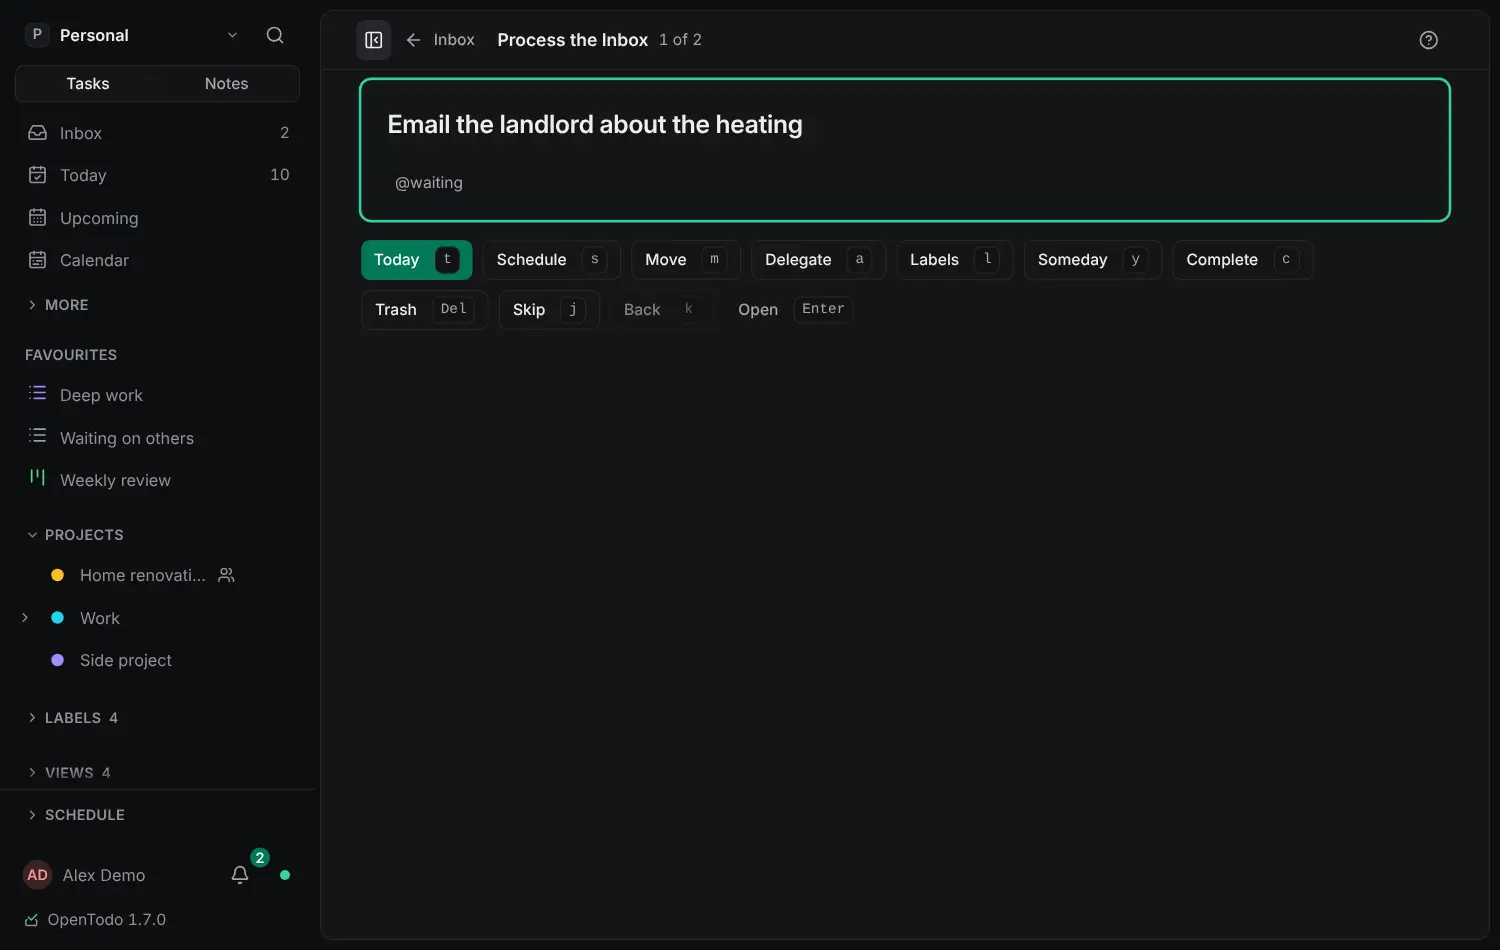
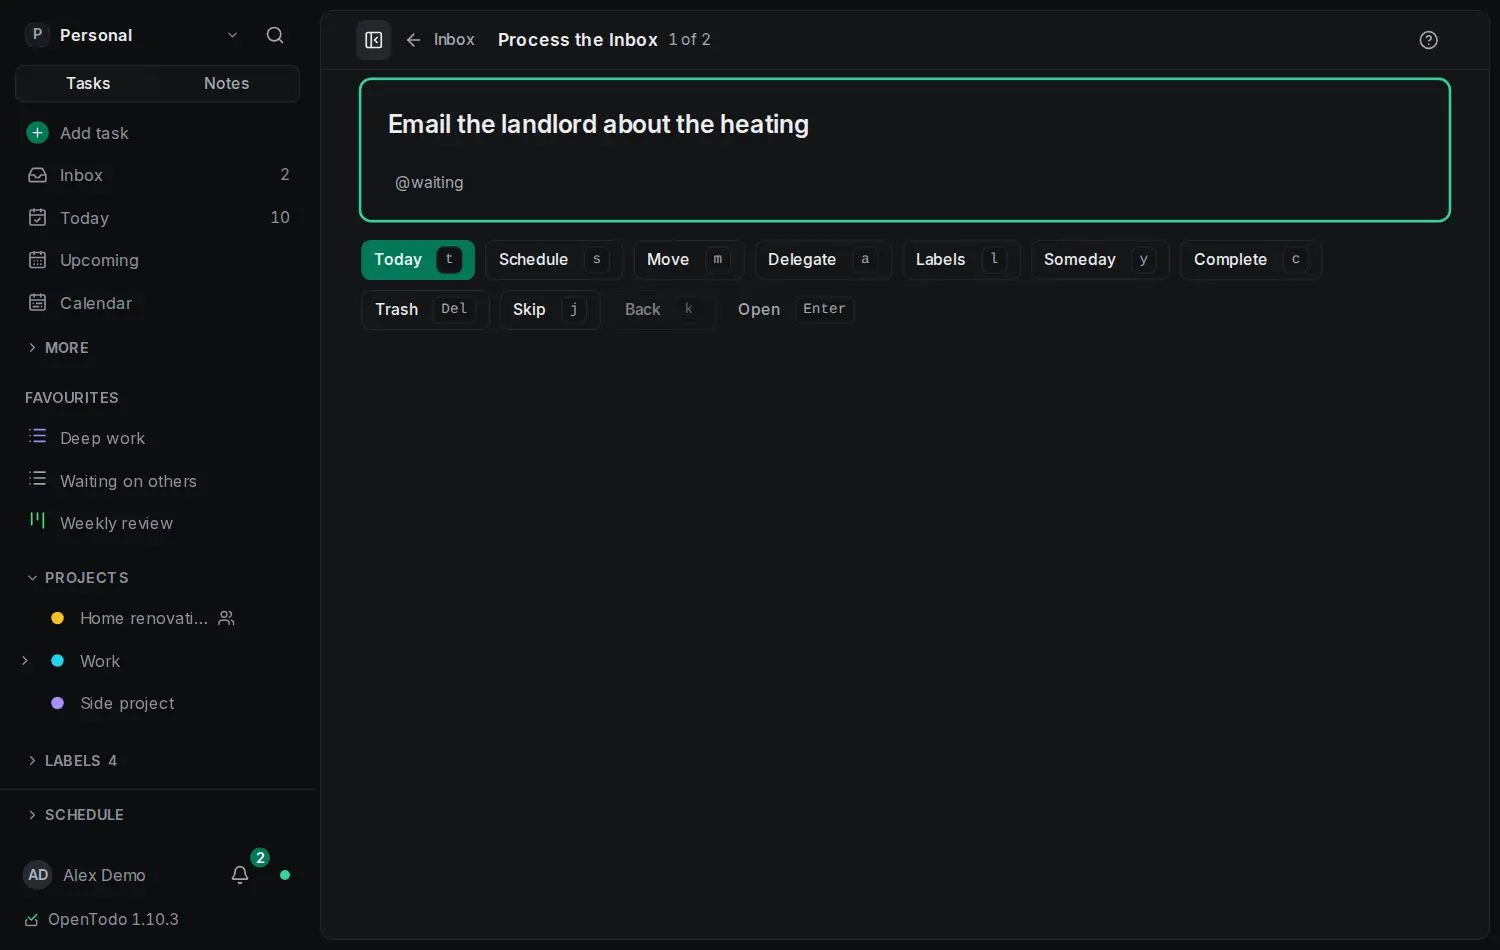
Prepare 1.10.3 (#2153)
* Docs screenshots of Process the Inbox, retaken for 1.10.3

Claude-Session: https://claude.ai/code/session_0187cnkUznk8omJqBk45JtjP

* Prepare 1.10.3

Claude-Session: https://claude.ai/code/session_0187cnkUznk8omJqBk45JtjP

---------

diff --git a/deploy/runtipi/upstream/scripts/__tests__/update-config.test.ts b/deploy/runtipi/upstream/scripts/__tests__/update-config.test.ts
@@ -24,9 +24,9 @@ beforeEach(() => {
 afterEach(() => fs.rmSync(dir, { recursive: true, force: true }));
 
 test("a new OpenTodo image raises the version, tipi_version and updated_at", async () => {
-  fs.writeFileSync(path.join(dir, "docker-compose.yml"), compose("ghcr.io/opentodoapp/opentodo:1.10.2", "busybox:1.37.0"));
-  const c = await updateAppConfig(path.join(dir, "docker-compose.yml"), "1.10.2", "ghcr.io/opentodoapp/opentodo", 1000);
-  expect(c.version).toBe("1.10.2");
+  fs.writeFileSync(path.join(dir, "docker-compose.yml"), compose("ghcr.io/opentodoapp/opentodo:1.10.3", "busybox:1.37.0"));
+  const c = await updateAppConfig(path.join(dir, "docker-compose.yml"), "1.10.3", "ghcr.io/opentodoapp/opentodo", 1000);
+  expect(c.version).toBe("1.10.3");
   expect(c.tipi_version).toBe(2);
   expect(c.updated_at).toBe(1000);
 });

diff --git a/deploy/caprover/README.md b/deploy/caprover/README.md
@@ -4,7 +4,7 @@ A [CapRover](https://caprover.com) one-click app in the v4 format of [`caprover/
 
 | Path | What |
 | --- | --- |
-| [`opentodo.yml`](opentodo.yml) | The app. One service, `$$cap_appname`, from `ghcr.io/opentodoapp/opentodo:$$cap_opentodo_version` (the version field defaults to the latest release, `1.10.2`). `containerHttpPort: '8080'` (CapRover's nginx proxies to it; no published port). The named volume `$$cap_appname-data` on `/data`. Four form fields passed as `OPENTODO_*`: base URL (empty), setup token (generated, `$$cap_gen_random_hex(32)`), open sign-up (`false`), trusted proxies (empty). The message after the install shows the setup token and says how to turn on https and then set the base URL. |
+| [`opentodo.yml`](opentodo.yml) | The app. One service, `$$cap_appname`, from `ghcr.io/opentodoapp/opentodo:$$cap_opentodo_version` (the version field defaults to the latest release, `1.10.3`). `containerHttpPort: '8080'` (CapRover's nginx proxies to it; no published port). The named volume `$$cap_appname-data` on `/data`. Four form fields passed as `OPENTODO_*`: base URL (empty), setup token (generated, `$$cap_gen_random_hex(32)`), open sign-up (`false`), trusted proxies (empty). The message after the install shows the setup token and says how to turn on https and then set the base URL. |
 | `upstream/public/v4/apps/opentodo.yml`, `upstream/public/v4/logos/opentodo.png` | Byte-identical copies at the paths they take in `caprover/one-click-apps`. The logo is `web/public/pwa-512.png` (their validator wants a png named like the app). |
 | [`upstream/PR.md`](upstream/PR.md) | Pull request title and body, with their checklist. |
 
@@ -53,5 +53,5 @@ CapRover can add other one-click repositories (**One-Click Apps/Databases → 3r
 ## Tested
 
 - Their validator, formatter and build on a copy of `caprover/one-click-apps` with this app added: `npm run validate_apps` (prints "Validated opentodo"), `npm run formatter` ("All matched files use Prettier code style!"), `npm run build` (writes `dist/v4/apps/opentodo` and the list entry).
-- The built JSON rendered the way CapRover does (random hex, form defaults, split/join of every id after `$$cap_appname`), then run with Docker in CapRover's order: the placeholder image with the named volume first, then `ghcr.io/opentodoapp/opentodo:1.10.2` with the rendered environment on the same volume. `/data` became 65532-owned, `/healthz` answered ok, the container turned healthy, creating the owner failed without the token and worked with the one from the end message, and the owner survived a restart and a replaced container.
+- The built JSON rendered the way CapRover does (random hex, form defaults, split/join of every id after `$$cap_appname`), then run with Docker in CapRover's order: the placeholder image with the named volume first, then `ghcr.io/opentodoapp/opentodo:1.10.3` with the rendered environment on the same volume. `/data` became 65532-owned, `/healthz` answered ok, the container turned healthy, creating the owner failed without the token and worked with the one from the end message, and the owner survived a restart and a replaced container.
 - Not tested: a real CapRover instance (Swarm, its nginx, Let's Encrypt). Before submitting, run step A.4.

diff --git a/deploy/truenas/README.md b/deploy/truenas/README.md
@@ -4,8 +4,8 @@
 
 | File | What it is |
 | --- | --- |
-| `app.yaml` | Catalogue metadata: the app's own `version` (a patch bump per release), `app_version` `1.10.2` (the image tag), category productivity, `run_as_context` 568:568, library `2.3.17` and its hash |
-| `ix_values.yaml` | The images: `ghcr.io/opentodoapp/opentodo` tag `"1.10.2"`, and TrueNAS's `container-utils` for the permissions container |
+| `app.yaml` | Catalogue metadata: the app's own `version` (a patch bump per release), `app_version` `1.10.3` (the image tag), category productivity, `run_as_context` 568:568, library `2.3.17` and its hash |
+| `ix_values.yaml` | The images: `ghcr.io/opentodoapp/opentodo` tag `"1.10.3"`, and TrueNAS's `container-utils` for the permissions container |
 | `questions.yaml` | The install form: Base URL, Setup Token (private), Allow Sign-up, Trusted Proxies, additional variables, user and group (568), Web UI port (30536), storage, labels, resources |
 | `templates/docker-compose.yaml` | The Jinja template TrueNAS's library renders: user 568:568, health check `/opentodo healthcheck` (the image has no shell or wget), `OPENTODO_ADDR=:<chosen port>`, `OPENTODO_DATA_DIR=/data`, the data mount, and a permissions container that chowns it to the chosen user |
 | `templates/test_values/basic-values.yaml`, `hostnet-values.yaml` | What their CI renders and starts: a published port (30080), and host networking (30081) with every setting filled in |
@@ -14,7 +14,7 @@
 
 TrueNAS apps listen on the port the user chooses (so the **Host Network** option works), which is why the template sets `OPENTODO_ADDR` from it instead of mapping a port to 8080. The default in the form is 30536: the first choice, 30530, clashed with `community/money` in their `.github/scripts/port_validation.py`, so the submission moved it.
 
-The image is pinned to a release (`1.10.2`), not `stable`: `truenas/apps` versions every app by its image tag, and their Renovate bot bumps it. `make check` (`scripts/deploy/truenas.mjs`) fails when the tag is not the latest release in `CHANGELOG.md`, when `app_version` differs from it, and on the shared rules in [`../deploy.json`](../deploy.json).
+The image is pinned to a release (`1.10.3`), not `stable`: `truenas/apps` versions every app by its image tag, and their Renovate bot bumps it. `make check` (`scripts/deploy/truenas.mjs`) fails when the tag is not the latest release in `CHANGELOG.md`, when `app_version` differs from it, and on the shared rules in [`../deploy.json`](../deploy.json).
 
 **Status: Submitted: [truenas/apps#6240](https://github.com/truenas/apps/pull/6240)** (after the issue [truenas/apps#6239](https://github.com/truenas/apps/issues/6239)). The files here are exactly what was submitted, including `lib_version_hash` and `date_added: '2026-10-24'`.
 

diff --git a/deploy/runtipi/README.md b/deploy/runtipi/README.md
@@ -5,7 +5,7 @@ Runtipi's official app store ([`runtipi/runtipi-appstore`](https://github.com/ru
 The app, in Runtipi's native format (Runtipi 4.7.0 or newer):
 
 - [`config.json`](config.json): id `opentodo`, port 8400 (the host port when the user opens one), category `utilities`, `exposable` (a domain with https through Runtipi's Traefik), `version` = the release, `tipi_version` (raised on every change users should get), and four optional form fields: base URL, setup token, open sign-up, trusted proxies.
-- [`docker-compose.yml`](docker-compose.yml): the `opentodo` service (the key is the app id; `x-runtipi.is_main`, `internal_port: 8080`) with the **release tag** (`ghcr.io/opentodoapp/opentodo:1.10.2`; Runtipi's store test wants the tag to contain `version`), the health check, `${APP_DATA_DIR}/data` on `/data` and the form fields as `OPENTODO_*` with their defaults; and `opentodo-init`, a one-shot `busybox` that runs `chown -R 65532:65532 /data` before OpenTodo starts. Runtipi creates the data folder owned by root and only makes it writable (`chmod a+rwx`) after the first `compose up`, so without it the first start fails with `open /data/opentodo.lock: permission denied`. `restart: "no"` keeps Runtipi's default `unless-stopped` from restarting it after it finishes.
+- [`docker-compose.yml`](docker-compose.yml): the `opentodo` service (the key is the app id; `x-runtipi.is_main`, `internal_port: 8080`) with the **release tag** (`ghcr.io/opentodoapp/opentodo:1.10.3`; Runtipi's store test wants the tag to contain `version`), the health check, `${APP_DATA_DIR}/data` on `/data` and the form fields as `OPENTODO_*` with their defaults; and `opentodo-init`, a one-shot `busybox` that runs `chown -R 65532:65532 /data` before OpenTodo starts. Runtipi creates the data folder owned by root and only makes it writable (`chmod a+rwx`) after the first `compose up`, so without it the first start fails with `open /data/opentodo.lock: permission denied`. `restart: "no"` keeps Runtipi's default `unless-stopped` from restarting it after it finishes.
 - [`metadata/description.md`](metadata/description.md) and [`metadata/logo.jpg`](metadata/logo.jpg) (512×512 JPEG, rendered from the brand mark by `make brand-icons`).
 
 **Status: published** as our own app store, [`OpenTodoApp/opentodo-runtipi`](https://github.com/OpenTodoApp/opentodo-runtipi).

diff --git a/deploy/casaos/README.md b/deploy/casaos/README.md
@@ -1,6 +1,6 @@
 # CasaOS / ZimaOS app store template
 
-[`docker-compose.yml`](docker-compose.yml) is an app for the CasaOS / ZimaOS app store ([IceWhaleTech/CasaOS-AppStore](https://github.com/IceWhaleTech/CasaOS-AppStore)): a Docker Compose file with the store's `x-casaos` metadata. It runs the latest release by version (`ghcr.io/opentodoapp/opentodo:1.10.2`, the store refuses moving tags), publishes the web port 8080 as 8418 on the server, keeps the data in `/DATA/AppData/$AppID/data` on `/data`, and offers the base URL, setup token, sign-up and trusted proxies settings with the catalogue's descriptions. No setting is required. A pinned `busybox` one-shot service (`opentodo-init`) runs `chown -R 65532:65532 /data` before OpenTodo starts, because Docker creates the bind folder owned by root and the image has no shell (the store's OpenClaw app does the same). The facts it shares with the other templates are in [`../deploy.json`](../deploy.json); `make check` keeps them in line ([`../README.md`](../README.md)).
+[`docker-compose.yml`](docker-compose.yml) is an app for the CasaOS / ZimaOS app store ([IceWhaleTech/CasaOS-AppStore](https://github.com/IceWhaleTech/CasaOS-AppStore)): a Docker Compose file with the store's `x-casaos` metadata. It runs the latest release by version (`ghcr.io/opentodoapp/opentodo:1.10.3`, the store refuses moving tags), publishes the web port 8080 as 8418 on the server, keeps the data in `/DATA/AppData/$AppID/data` on `/data`, and offers the base URL, setup token, sign-up and trusted proxies settings with the catalogue's descriptions. No setting is required. A pinned `busybox` one-shot service (`opentodo-init`) runs `chown -R 65532:65532 /data` before OpenTodo starts, because Docker creates the bind folder owned by root and the image has no shell (the store's OpenClaw app does the same). The facts it shares with the other templates are in [`../deploy.json`](../deploy.json); `make check` keeps them in line ([`../README.md`](../README.md)).
 
 **Status: Submitted: [IceWhaleTech/CasaOS-AppStore#1104](https://github.com/IceWhaleTech/CasaOS-AppStore/pull/1104).** The steps for users, including installing it now as a custom app, are in [docs/self-hosting/casaos.md](../../docs/self-hosting/casaos.md).
 

diff --git a/docs/self-hosting/caprover.md b/docs/self-hosting/caprover.md
@@ -29,7 +29,7 @@ Open `http://<app name>.<your root domain>`. The first visitor creates the owner
 
 | Field | Default | What it does |
 | --- | --- | --- |
-| OpenTodo version | the latest release, for example `1.10.2` | The image tag of `ghcr.io/opentodoapp/opentodo`. |
+| OpenTodo version | the latest release, for example `1.10.3` | The image tag of `ghcr.io/opentodoapp/opentodo`. |
 | Base URL | empty | The https address people open. Leave it empty until https is on (see below). |
 | Setup token | generated, 32 characters | Asked for when the owner account is created, so a stranger cannot claim a new server first. |
 | Open sign-up | `false` | `true` lets anyone who can reach the server create an account. |
@@ -63,7 +63,7 @@ chown -R 65532:65532 /path/on/the/server
 
 ## Updates and backups
 
-The version field picks one release, and CapRover never updates an installed app by itself. To update, open the app's **Deployment** tab and, under **Deploy via ImageName**, enter the new version, for example `ghcr.io/opentodoapp/opentodo:1.10.2`, then deploy. CapRover pulls the image you name each time you deploy, so entering `ghcr.io/opentodoapp/opentodo:stable` instead gets the current release whenever you deploy it again. Migrations run on start. There are no down-migrations, so back up first. Releases are listed on [GitHub](https://github.com/OpenTodoApp/OpenTodo/releases).
+The version field picks one release, and CapRover never updates an installed app by itself. To update, open the app's **Deployment** tab and, under **Deploy via ImageName**, enter the new version, for example `ghcr.io/opentodoapp/opentodo:1.10.3`, then deploy. CapRover pulls the image you name each time you deploy, so entering `ghcr.io/opentodoapp/opentodo:stable` instead gets the current release whenever you deploy it again. Migrations run on start. There are no down-migrations, so back up first. Releases are listed on [GitHub](https://github.com/OpenTodoApp/OpenTodo/releases).
 
 Back up the volume folder above with your server's backups, or turn on scheduled backups in OpenTodo's **Settings → Server → Backups** (they are written to `backups/` in the same volume, or to S3 or WebDAV). See [Backups](../backups.md).
 

diff --git a/docs/self-hosting/docker.md b/docs/self-hosting/docker.md
@@ -48,7 +48,7 @@ To add more people, keep sign-up closed and create single-use invitation links i
 - Data lives in the named volume `opentodo-data`, mounted at `/data`.
 - Change the host port with `OPENTODO_PORT` in `.env`, and the host address it is published on with `OPENTODO_BIND` (default `0.0.0.0`, every interface, so other devices on your network reach it). Behind a reverse proxy on the same machine, `OPENTODO_BIND=127.0.0.1` is the safer choice: only the proxy reaches the server. That `.env` value is not passed into the container, so the process keeps listening on 8080 and the mapping stays `host:8080`. To move the process, set `OPENTODO_PORT` in the container's own environment and publish that container port (`-p 7610:7610 -e OPENTODO_PORT=7610`). An invalid port stops startup with a message naming the variable. The health check probes the port the process is using.
 - Every variable in the [configuration reference](configuration.md) can be set in `.env`; the compose file passes them to the container. With `docker run`, pass them with `-e`.
-- The compose file pulls `ghcr.io/opentodoapp/opentodo:stable`, which every release moves. To stay on one release line use `:1.10` (its fixes only), to pin one version `:1.10.2`; `:latest` follows the main branch and carries unreleased changes; it reports its version as `dev+<commit>`, the commit it was built from. The running version is shown in **Settings → About**, at the bottom of the sign-in screen, at `/healthz` and in the startup log line `opentodo listening`.
+- The compose file pulls `ghcr.io/opentodoapp/opentodo:stable`, which every release moves. To stay on one release line use `:1.10` (its fixes only), to pin one version `:1.10.3`; `:latest` follows the main branch and carries unreleased changes; it reports its version as `dev+<commit>`, the commit it was built from. The running version is shown in **Settings → About**, at the bottom of the sign-in screen, at `/healthz` and in the startup log line `opentodo listening`.
 - To build locally instead of pulling: replace `image: ghcr.io/opentodoapp/opentodo:stable` with `build: .`.
 
 ## Plain `docker run`

diff --git a/CHANGELOG.md b/CHANGELOG.md
@@ -6,6 +6,18 @@ All notable changes to OpenTodo are documented here. The format follows [Keep a 
 
 Changes since the last release are in [changelog.d/](changelog.d/README.md), one file per change; `make release-prepare` moves them here when a release is cut.
 
+## [1.10.3] - 2026-11-27
+
+One fix, found by using the 1.10.2 Android app with real touches on a recent Android System WebView: in Process the Inbox a swipe that began on the task's title did nothing.
+
+### Upgrade notes
+
+- **Replace the image or the binary and restart; back up first.** No migration, no new or changed variable, as for 1.10.2. The apps show the fix once their server runs this version.
+
+### Fixed
+
+- **Process the Inbox: a swipe that starts on the title decides the task.** The title is a text field that kept the touch for itself, so on a phone the swipe did nothing unless it began on the card's edge.
+
 ## [1.10.2] - 2026-11-26
 
 Fixes found by using the released 1.10.1 Android app on an emulator: swiping a task did nothing on older Android system web views, the timeline's Earlier and Later seemed to do nothing, and a few things sat a little wrong on a phone.
@@ -2131,7 +2143,8 @@ Other known limitations: CalDAV does not translate alarms into reminders (alarms
 | `0023_e2ee.sql` | `encryption_keys` (the wrapped key record) |
 | `0024_caldav_orphans.sql` | nothing new: removes `caldav_resources` rows of tasks that were already purged |
 
-[Unreleased]: https://github.com/OpenTodoApp/OpenTodo/compare/v1.10.2...HEAD
+[Unreleased]: https://github.com/OpenTodoApp/OpenTodo/compare/v1.10.3...HEAD
+[1.10.3]: https://github.com/OpenTodoApp/OpenTodo/compare/v1.10.2...v1.10.3
 [1.10.2]: https://github.com/OpenTodoApp/OpenTodo/compare/v1.10.1...v1.10.2
 [1.10.1]: https://github.com/OpenTodoApp/OpenTodo/compare/v1.10.0...v1.10.1
 [1.10.0]: https://github.com/OpenTodoApp/OpenTodo/compare/v1.9.0...v1.10.0

diff --git a/docs/self-hosting/dokploy.md b/docs/self-hosting/dokploy.md
@@ -44,7 +44,7 @@ For https, point your own domain at the server and edit the domain in the **Doma
 
 ## Updates and backups
 
-The template pins one release, such as `ghcr.io/opentodoapp/opentodo:1.10.2`, because Dokploy's catalogue only accepts fixed versions. A service keeps the version it was created with. To update, change the image tag in the service's compose file to the [new release](https://github.com/OpenTodoApp/OpenTodo/releases) and click **Deploy**; migrations run on start. There are no down-migrations, so back up first. To follow every release without editing, use `ghcr.io/opentodoapp/opentodo:stable` (every release moves it) and add `pull_policy: always` under the image, so **Deploy** fetches the current one.
+The template pins one release, such as `ghcr.io/opentodoapp/opentodo:1.10.3`, because Dokploy's catalogue only accepts fixed versions. A service keeps the version it was created with. To update, change the image tag in the service's compose file to the [new release](https://github.com/OpenTodoApp/OpenTodo/releases) and click **Deploy**; migrations run on start. There are no down-migrations, so back up first. To follow every release without editing, use `ghcr.io/opentodoapp/opentodo:stable` (every release moves it) and add `pull_policy: always` under the image, so **Deploy** fetches the current one.
 
 Everything OpenTodo stores (the database, attachments and its own backups) is in the named volume `opentodo-data`. Back it up with Dokploy's **Volume Backups** to an S3 destination, or turn on scheduled backups in OpenTodo's **Settings → Server → Backups**. See [Backups](../backups.md).
 

diff --git a/docs/self-hosting/truenas.md b/docs/self-hosting/truenas.md
@@ -21,7 +21,7 @@ OpenTodo is in the TrueNAS **Apps** catalogue, in the community train ([truenas/
    ```yaml
    services:
      opentodo:
-       image: ghcr.io/opentodoapp/opentodo:1.10.2
+       image: ghcr.io/opentodoapp/opentodo:1.10.3
        user: "568:568"
        restart: unless-stopped
        ports:
@@ -62,6 +62,6 @@ On the server's address (`http://192.168.1.10:30536`) tasks, projects, sync, sha
 
 ## Updates and backups
 
-The app names one release (`1.10.2`), never a moving tag. With Install via YAML, change the tag in the app's YAML (**Edit**) to the new release and save; TrueNAS pulls it and restarts the app. From the catalogue, TrueNAS shows **Update** on the app when the catalogue has a new version (its maintainers bump it after each OpenTodo release). Migrations run on start and there are no down-migrations, so back up first.
+The app names one release (`1.10.3`), never a moving tag. With Install via YAML, change the tag in the app's YAML (**Edit**) to the new release and save; TrueNAS pulls it and restarts the app. From the catalogue, TrueNAS shows **Update** on the app when the catalogue has a new version (its maintainers bump it after each OpenTodo release). Migrations run on start and there are no down-migrations, so back up first.
 
 Everything OpenTodo stores is in its dataset (or ixVolume). Protect it with periodic **snapshots** and **replication** or a **Cloud Sync** task, or turn on scheduled backups in **Settings → Server → Backups** (written to `backups/` in the same folder, or to S3 or WebDAV). See [Backups](../backups.md).

diff --git a/docs/self-hosting/casaos.md b/docs/self-hosting/casaos.md
@@ -43,7 +43,7 @@ On the server's address (`http://192.168.1.10:8418`) tasks, projects, sync, shar
 
 ## Updates and backups
 
-The app store does not follow moving image tags: the app names one release (for example `ghcr.io/opentodoapp/opentodo:1.10.2`), and the store offers an update once its entry moves to the next release (OpenTodo's maintainers send that change to the store after each release). Migrations run on start and there are no down-migrations, so back up first (see below). A custom install stays on the release it was installed with; to update it, edit the app, change the image tag to the new version and save.
+The app store does not follow moving image tags: the app names one release (for example `ghcr.io/opentodoapp/opentodo:1.10.3`), and the store offers an update once its entry moves to the next release (OpenTodo's maintainers send that change to the store after each release). Migrations run on start and there are no down-migrations, so back up first (see below). A custom install stays on the release it was installed with; to update it, edit the app, change the image tag to the new version and save.
 
 Back up `/DATA/AppData/opentodo/data` with your usual backup tool (stop the app first for a consistent copy), or turn on scheduled backups in **Settings → Server → Backups** (they are written to `backups/` in the same folder, or to S3 or WebDAV). See [Backups](../backups.md).
 

diff --git a/docs/self-hosting/easypanel.md b/docs/self-hosting/easypanel.md
@@ -15,7 +15,7 @@ An OpenTodo template has been submitted to Easypanel's template list ([easypanel
 ## Install as an app service
 
 1. In a project, click **+ Service → App** and name it `opentodo`.
-2. **Source**: choose **Docker Image** and enter `ghcr.io/opentodoapp/opentodo:1.10.2`.
+2. **Source**: choose **Docker Image** and enter `ghcr.io/opentodoapp/opentodo:1.10.3`.
 3. **Environment**: add
 
    ```
@@ -47,6 +47,6 @@ Every other `OPENTODO_*` variable from the [configuration table](https://github.
 
 ## Updates and backups
 
-The service names one release (`1.10.2`), never a moving tag, so it changes only when you change it: set the image to the new release under **Source** and **Deploy**. Migrations run on start and there are no down-migrations, so back up first.
+The service names one release (`1.10.3`), never a moving tag, so it changes only when you change it: set the image to the new release under **Source** and **Deploy**. Migrations run on start and there are no down-migrations, so back up first.
 
 Everything OpenTodo stores is in the `data` volume. Turn on scheduled backups in **Settings → Server → Backups** (written to `backups/` in the same volume, or to S3 or WebDAV) to get copies off the server. See [Backups](../backups.md).
